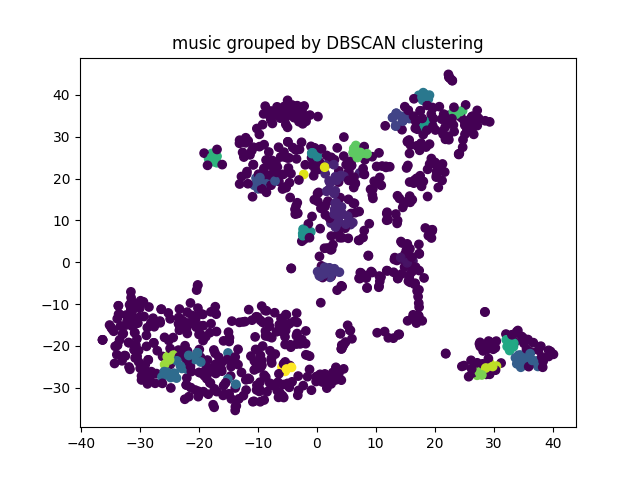
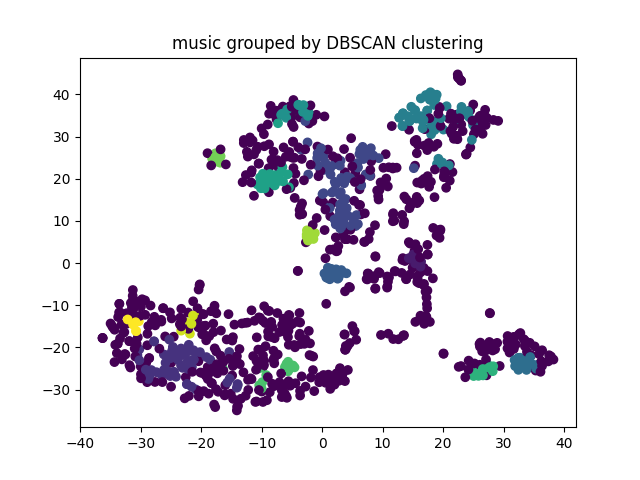
minorchanges

diff --git a/src/grid_search.py b/src/grid_search.py
@@ -47,7 +47,7 @@ def dbscan_parameter_search(X, eps_range, min_samples_range):
       labels = dbscan.fit_predict(X)
       
       # Skip if all points are noise
-      if len(set(labels)) == 1 and -1 in labels:
+      if len(set(labels)) == 1:
         continue
 
       score = silhouette_score(X, labels)
@@ -62,11 +62,12 @@ def dbscan_parameter_search(X, eps_range, min_samples_range):
 # Example usage:
 
 
-eps_range = np.linspace(0.1, 10, 10)
-min_samples_range = range(5, 20)
+eps_range = np.linspace(0.1, 15, 100)
+min_samples_range = range(5, 50)
 
 
-p , s =dbscan_parameter_search(emb_list, eps_range, min_samples_range)
+p, s =dbscan_parameter_search(emb_list, eps_range, min_samples_range)
+print(p,s)
 
 dbscan  = DBSCAN(eps=p["eps"], min_samples=p["min_samples"]).fit(emb_list)
 y_dbscan = dbscan.labels_

diff --git a/src/main.py b/src/main.py
@@ -54,7 +54,7 @@ y_kmeans = kmeans.labels_
 hdbscan = HDBSCAN(min_cluster_size=10, min_samples=5).fit(emb_list)
 y_hdbscan = hdbscan.labels_
 
-dbscan  = DBSCAN(eps=4.2, min_samples=5).fit(emb_list)
+dbscan  = DBSCAN(eps=4.6, min_samples=7).fit(emb_list)
 y_dbscan = dbscan.labels_
 
 affinity = AffinityPropagation().fit(emb_list)
